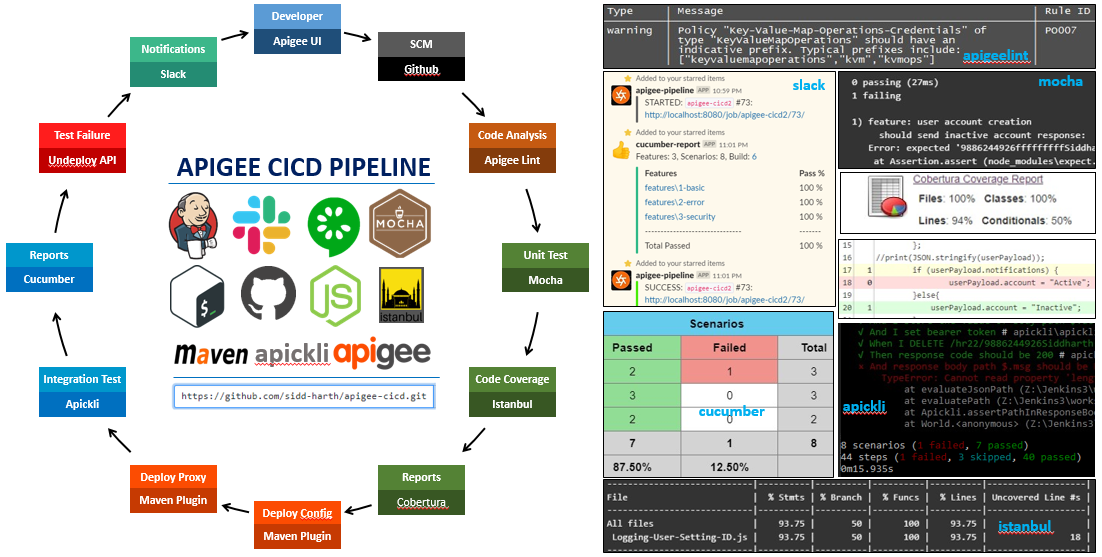
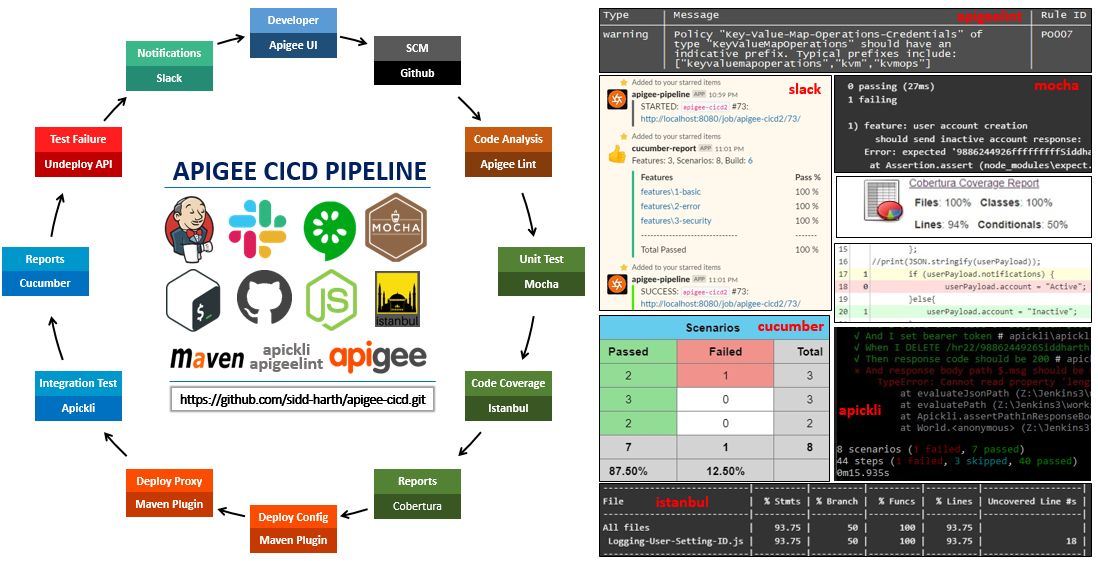
many

diff --git a/README.md b/README.md
@@ -3,6 +3,9 @@
 This repository includes the instructions and pipeline definition for CI/CD using Jenkins, Apigee Lint, Apickli, Cucumber Reports, Slack & Apigee Maven Deploy plugin on Apigee.
 
 Often the most difficult and confusing aspect of application development is figuring out how to build a common framework for creating/deploying new applications. Over time, development teams have started using tools like Maven to automate some of these functions. This repository uses various tools/plugins for deploying Apigee bundles to the Edge platform.
+<p align="center">
+  <img src="https://user-images.githubusercontent.com/28925814/61174524-03a51d80-a5bf-11e9-8e66-c59da67cabd6.png?raw=true" alt="Pipeline"/>
+</p>
 
 ![arch_diagram](https://user-images.githubusercontent.com/28925814/61081996-2bbd4100-a446-11e9-9b5e-8cbd8d6801cb.png)
 
@@ -17,53 +20,82 @@ On every pipeline execution, the code goes through the following steps:
 7. The newly deployed `prod` environment goes through Integration tests using `Apickli`.
 8. Apickli produced `Cucumber Reports` are displayed in Jenkins.
 9. If the test `FAILS`, current revision is `undeployed` and a stable revision is `re-deployed`.
-10. The `Cucumber reports` are also sent to `Slack Room`.
-11. Build `Success/Fail` notification is sent to `Slack Room`.
+10. Build `Success/Fail` notification along with `Cucumber reports` are sent to `Slack Room`.
 
 # Prerequisites
 * [Apigee Edge Account](https://login.apigee.com/login)
 * [Slack Account + Jenkins Config](https://wiki.jenkins.io/display/JENKINS/Slack+Plugin)
+* [Cucumber-Slack-Notifier](https://wiki.jenkins.io/display/JENKINS/Cucumber+Slack+Notifier+Plugin)
+* [Cobertura Jenkins Plugin](https://wiki.jenkins.io/display/JENKINS/Cobertura+Plugin)
 * NodeJS & NPM
 * Configure Jenkins with Git, Cucumber Reports, JDK, Maven, NodeJS, Slack Plugins
-![blueocean](https://user-images.githubusercontent.com/28925814/40007507-9e76a9cc-57ba-11e8-9064-e7a0064227ac.jpg)
 
 # Demo Guide
-1. HR API - Which does do all CRUD operations on employee records. For backend I am using Firestore DB.
-2. You can use any backend of your preference or simply mock the data using Assign Message Policy.
-3. Download `hr-api_rev1_test_env.zip` from this repo & deployed to `test` env or create an sample API Proxy.
-4. Clone/Fork this repo & Create a directory structure as per `hr-api` directory & place your `apiproxy` folder.
-5. In Jenkins as of 14th May, 2018 I am not using Git SCM due to some Jenkins issue(this will be rectified ASAP). I have manually copy-pasted my Jenkinsfile Script in my Pipeline Job.
-6. Trigger Build Manually. First Assertible will run through the unit tests.
-```
-curl -u apikey: 'https://assertible.com/deployments' -d'{\"service\":\"d8d73-b0a94b325ae4\",\"environmentName\":\"production\",\"version\":\"v1\"}'
-```
-7. Apigee Lint will go through the `apiproxy` folder,
+1. HR API - A simple API to perform CRUD operations on employee records. For backend I am using Firestore DB.
+2. Download `HR-API.zip` proxy bundle from this repo/bundles & deploy to `test` env or create an sample API Proxy.
+3. Download `CiCd-Security.zip` proxy bundle from this repo/bundles & deploy to both `prod` & `test` environments.
+4. Fork this repo & create a directory structure as per `HR-API` directory & place your `apiproxy` folder.
+5. I am using an Parameterzied Build to pass the Apigee `username`, `password` and `base64encoded` string.
+6. `ApigeeLint` will go through the `apiproxy` folder,
 ```node
-apigeelint -s /hr-api/apiproxy/ -f table.js
+apigeelint -s HR-API/apiproxy/ -f codeframe.js
 ```
-![apigee-lint](https://user-images.githubusercontent.com/28925814/40007499-98bd6dfe-57ba-11e8-8d95-ba09a6000039.jpg)
-8. Build & Deploy happens through Apigee Maven Plugin(update `pom` files with appropiate details),
+<p align="center">
+  <img src="https://user-images.githubusercontent.com/28925814/61175192-bfb71600-a5c8-11e9-823a-7dabf01bc4af.jpg?raw=true" alt="Apigeelint"/>
+</p>
+
+7. Unit test any custom code within the proxy like `Javascript` in our case. But it can be `NodeJS` as well.
+```node
+npm test test/unit/*.js
+npm run coverage test/unit/*.js"
+```
+<p align="center">
+  <img src="https://user-images.githubusercontent.com/28925814/61175192-bfb71600-a5c8-11e9-823a-7dabf01bc4af.jpg?raw=true" alt="Mocha"/>
+</p>
+<p align="center">
+  <img src="https://user-images.githubusercontent.com/28925814/61175191-bfb71600-a5c8-11e9-9fc6-33a56f3084d5.jpg?raw=true" alt="Istanbul"/>
+</p>
+
+8. Using `Cobertura Plugin` in try-catch-finally block to generate reports in Jenkins.
+```
+cd coverage && cp cobertura-coverage.xml $WORKSPACE
+step([$class: 'CoberturaPublisher', coberturaReportFile: 'cobertura-coverage.xml'])
+```
+<p align="center">
+  <img src="https://user-images.githubusercontent.com/28925814/61174970-6994a380-a5c5-11e9-9e56-6c52ddc1bde3.jpg?raw=true" alt="Cobertura"/>
+  
+9. Build & Deploy happens through Apigee Maven Plugin (update `pom` and `edge.json` files with appropiate details),
 ```maven
-mvn -f /hr-api/pom.xml install -Pprod -Dusername=<email_here> -Dpassword=<password_here>
+mvn -f HR-API/pom.xml install -Pprod -Dusername=${apigeeUsername} -Dpassword=${apigeePassword} -Dapigee.config.options=update
 ```
-![maven-build](https://user-images.githubusercontent.com/28925814/40007503-9ba8be74-57ba-11e8-921f-b556a4048c77.jpg)
-9. Integration tests happen through Apickli - Cucumber - Gherkin Tests,
+<p align="center">
+  <img src="https://user-images.githubusercontent.com/28925814/61175010-022b2380-a5c6-11e9-9fb2-711c41232850.jpg?raw=true" alt="Maven"/>
+  
+10. Integration tests happen through Apickli - Cucumber - Gherkin Tests,
 ```javascript
-cucumber-js --format json:reports.json features/prod_tests.feature
+cd $WORKSPACE/test/integration && npm install
+cd $WORKSPACE/test/integration && npm test
 ```
-10. Cucumber Reports plugin in Jenkins will use the `reports.json` file to create HTML Reports & satistics.
-![cucumber-tag-fail](https://user-images.githubusercontent.com/28925814/40005985-e5518528-57b6-11e8-85e8-2327449d84a6.jpg)
-![cucumber-failure](https://user-images.githubusercontent.com/28925814/40005994-ea8f5b0a-57b6-11e8-8655-6222d806154e.jpg)
 
-11. If Integration tests fail, then through a `undeploy.sh` shell script I am undoing _Step 8_.
+11. Cucumber Reports plugin in Jenkins will use the `reports.json` file to create HTML Reports & statistics.
+<p align="center">
+  <img src="https://user-images.githubusercontent.com/28925814/61174977-77e2bf80-a5c5-11e9-833c-2e86f69a0598.jpg?raw=true" alt="Cucumber-Reports"/>
+<p align="center">
+  <img src="https://user-images.githubusercontent.com/28925814/61174974-774a2900-a5c5-11e9-8b8a-33f3c4668254.jpg?raw=true" alt="Cucumber-Reports"/>
+
+12. If Integration tests fail, then through a `undeploy.sh` shell script I am undoing _Step 8_. Through Jenkins Environment variable I am getting the current deployed revision and storing it as `Stable revision`. Within Shell Script I am using this value to re-deploy in case of Failure.
 ```javascript
-curl -X DELETE --header "Authorization: Basic <base64 username:password>" "https://api.enterprise.apigee.com/v1/organizations/$org_name/environments/$env_name/apis/$api_name/revisions/$rev_num/deployments"
-curl -X DELETE --header "Authorization: Basic <base64 username:password>" "https://api.enterprise.apigee.com/v1/organizations/$org_name/apis/$api_name/revisions/$rev_num"
-curl -X POST --header "Content-Type: application/x-www-form-urlencoded" --header "Authorization: Basic <base64 username:password>" "https://api.enterprise.apigee.com/v1/organizations/$org_name/environments/$env_name/apis/$api_name/revisions/$pre_rev/deployments"
+curl -X DELETE --header "Authorization: Basic $base64encoded" "https://api.enterprise.apigee.com/v1/organizations/$org_name/environments/$env_name/apis/$api_name/revisions/$rev_num/deployments"
+curl -X DELETE --header "Authorization: Basic $base64encoded" "https://api.enterprise.apigee.com/v1/organizations/$org_name/apis/$api_name/revisions/$rev_num"
+curl -X POST --header "Content-Type: application/x-www-form-urlencoded" --header "Authorization: Basic $base64encoded" "https://api.enterprise.apigee.com/v1/organizations/$org_name/environments/$env_name/apis/$api_name/revisions/$stable_revision/deployments"
 ```
-12. When Build Starts/Ends & At any step if a Failure occurs, a notification is sent to Slack Room.
-![slack-web](https://user-images.githubusercontent.com/28925814/40006639-7e98897e-57b8-11e8-85ac-9dd9022b7773.jpg)
-
-# Known/Current Issues
-1. Git Plugin issue with Jenkins. Hence a lot of manual steps had to be done in Jenkinsfile. Working on a solution, will update this Jenkinsfile.
-2. Cucumber Tests don't run/work in local directory. It only works from global directory /usr/node_modules/npm/ directory
+13. To send `cucumber-reports` to `Slack` I used cucumber-slack-notifier, but the pipeline cmd is not working as expected/documented. So for the time being I am running a separate `FreeStyle project >> Build >> Send Cucumber Report to Slack` and point it to the reports.json in this pipeline directory.
+```
+build job: 'cucumber-report'
+```
+14. When Build Starts/Ends & At any step if a Failure occurs, a notification is sent to Slack Room along with cucumber reports.
+<p align="center">
+  <img src="https://user-images.githubusercontent.com/28925814/61175129-d4df7500-a5c7-11e9-8fb1-3ff6fa7307be.jpg?raw=true" alt="Slack"/>
+  
+# References
+1. [Apigee - maven-jenkins-ci-demo](https://github.com/apigee/maven-jenkins-ci-demo)
